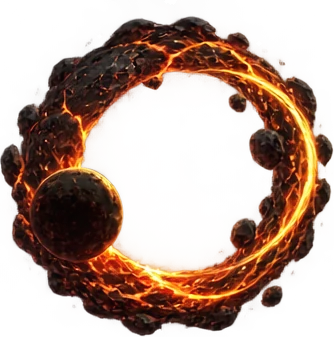
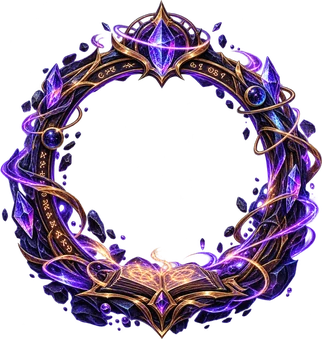
Рамка звания «Верховный маг» — новая картинка

diff --git a/games/index.html b/games/index.html
@@ -11,7 +11,7 @@
   // Свежая версия без ожидания кэша: Телеграм и сайт держат страницу до 10 минут и дольше.
   // Спрашиваем номер версии в обход кэша; если на сайте новее — перезагружаемся на неё (данные Телеграма в #… сохраняются).
   (function () {
-    var BUILD = "202611180312";
+    var BUILD = "202611181132";
     function check() {
       try {
         fetch("version.txt?t=" + Date.now(), { cache: "no-store" }).then(function (r) { return r.ok ? r.text() : ""; }).then(function (v) {
@@ -1068,7 +1068,7 @@
   // рамки званий: [звание, ширина, высота, центр отверстия x, y, радиус отверстия] — в пикселях картинки ramki/zNN.webp (номер = место звания)
   var RANK_FRAMES = [["Ученик звёзд", 295, 312, 146.7, 148.8, 104.0], ["Ловец комет", 338, 321, 167.9, 159.1, 101.9], ["Чтец созвездий", 312, 328, 155.8, 173.0, 104.0],
     ["Заклинатель", 333, 346, 165.1, 167.8, 100.8], ["Звездочёт", 342, 345, 157.1, 174.7, 103.7], ["Маг туманностей", 364, 313, 172.0, 157.3, 104.2],
-    ["Хранитель сфер", 365, 363, 188.2, 188.1, 99.8], ["Верховный маг", 334, 337, 179.7, 169.7, 91.5], ["Звёздный оракул", 343, 360, 171.5, 184.8, 92.4],
+    ["Хранитель сфер", 365, 363, 188.2, 188.1, 99.8], ["Верховный маг", 322, 339, 162.1, 165.9, 100.0], ["Звёздный оракул", 343, 360, 171.5, 184.8, 92.4],
     ["Хранитель галактики", 371, 356, 165.9, 180.4, 76.1], ["Творец звёзд", 429, 413, 204.2, 209.3, 81.0]];
   // надевает рамку звания на аватарку (кружок размером 2R): аватарка ложится в отверстие и чуть заходит под кольцо;
   // вокруг — обёртка по размеру рамки, поэтому соседний текст сам отодвигается. Звание без рамки — аватарка как была.
@@ -1078,7 +1078,7 @@
     if (n < 0) { if (w) { w.parentNode.insertBefore(av, w); w.remove(); av.style.left = av.style.top = ""; } return { w: 2 * R, el: av }; }
     var f = RANK_FRAMES[n], k = R / (f[5] * 1.064), W = Math.round(f[1] * k), H = Math.round(f[2] * k);
     if (!w) { w = el("span", "fav"); av.parentNode.insertBefore(w, av); w.appendChild(av); w.appendChild(el("img")); }
-    var img = w.querySelector("img"), src = "ramki/z" + (n < 9 ? "0" : "") + (n + 1) + ".webp";
+    var img = w.querySelector("img"), src = "ramki/z" + (n < 9 ? "0" : "") + (n + 1) + ".webp?2";
     if (img.getAttribute("src") !== src) { img.src = src; img.alt = ""; }
     w.style.width = W + "px"; w.style.height = H + "px"; img.style.width = W + "px";
     av.style.left = (f[3] * k - R) + "px"; av.style.top = (f[4] * k - R) + "px";
